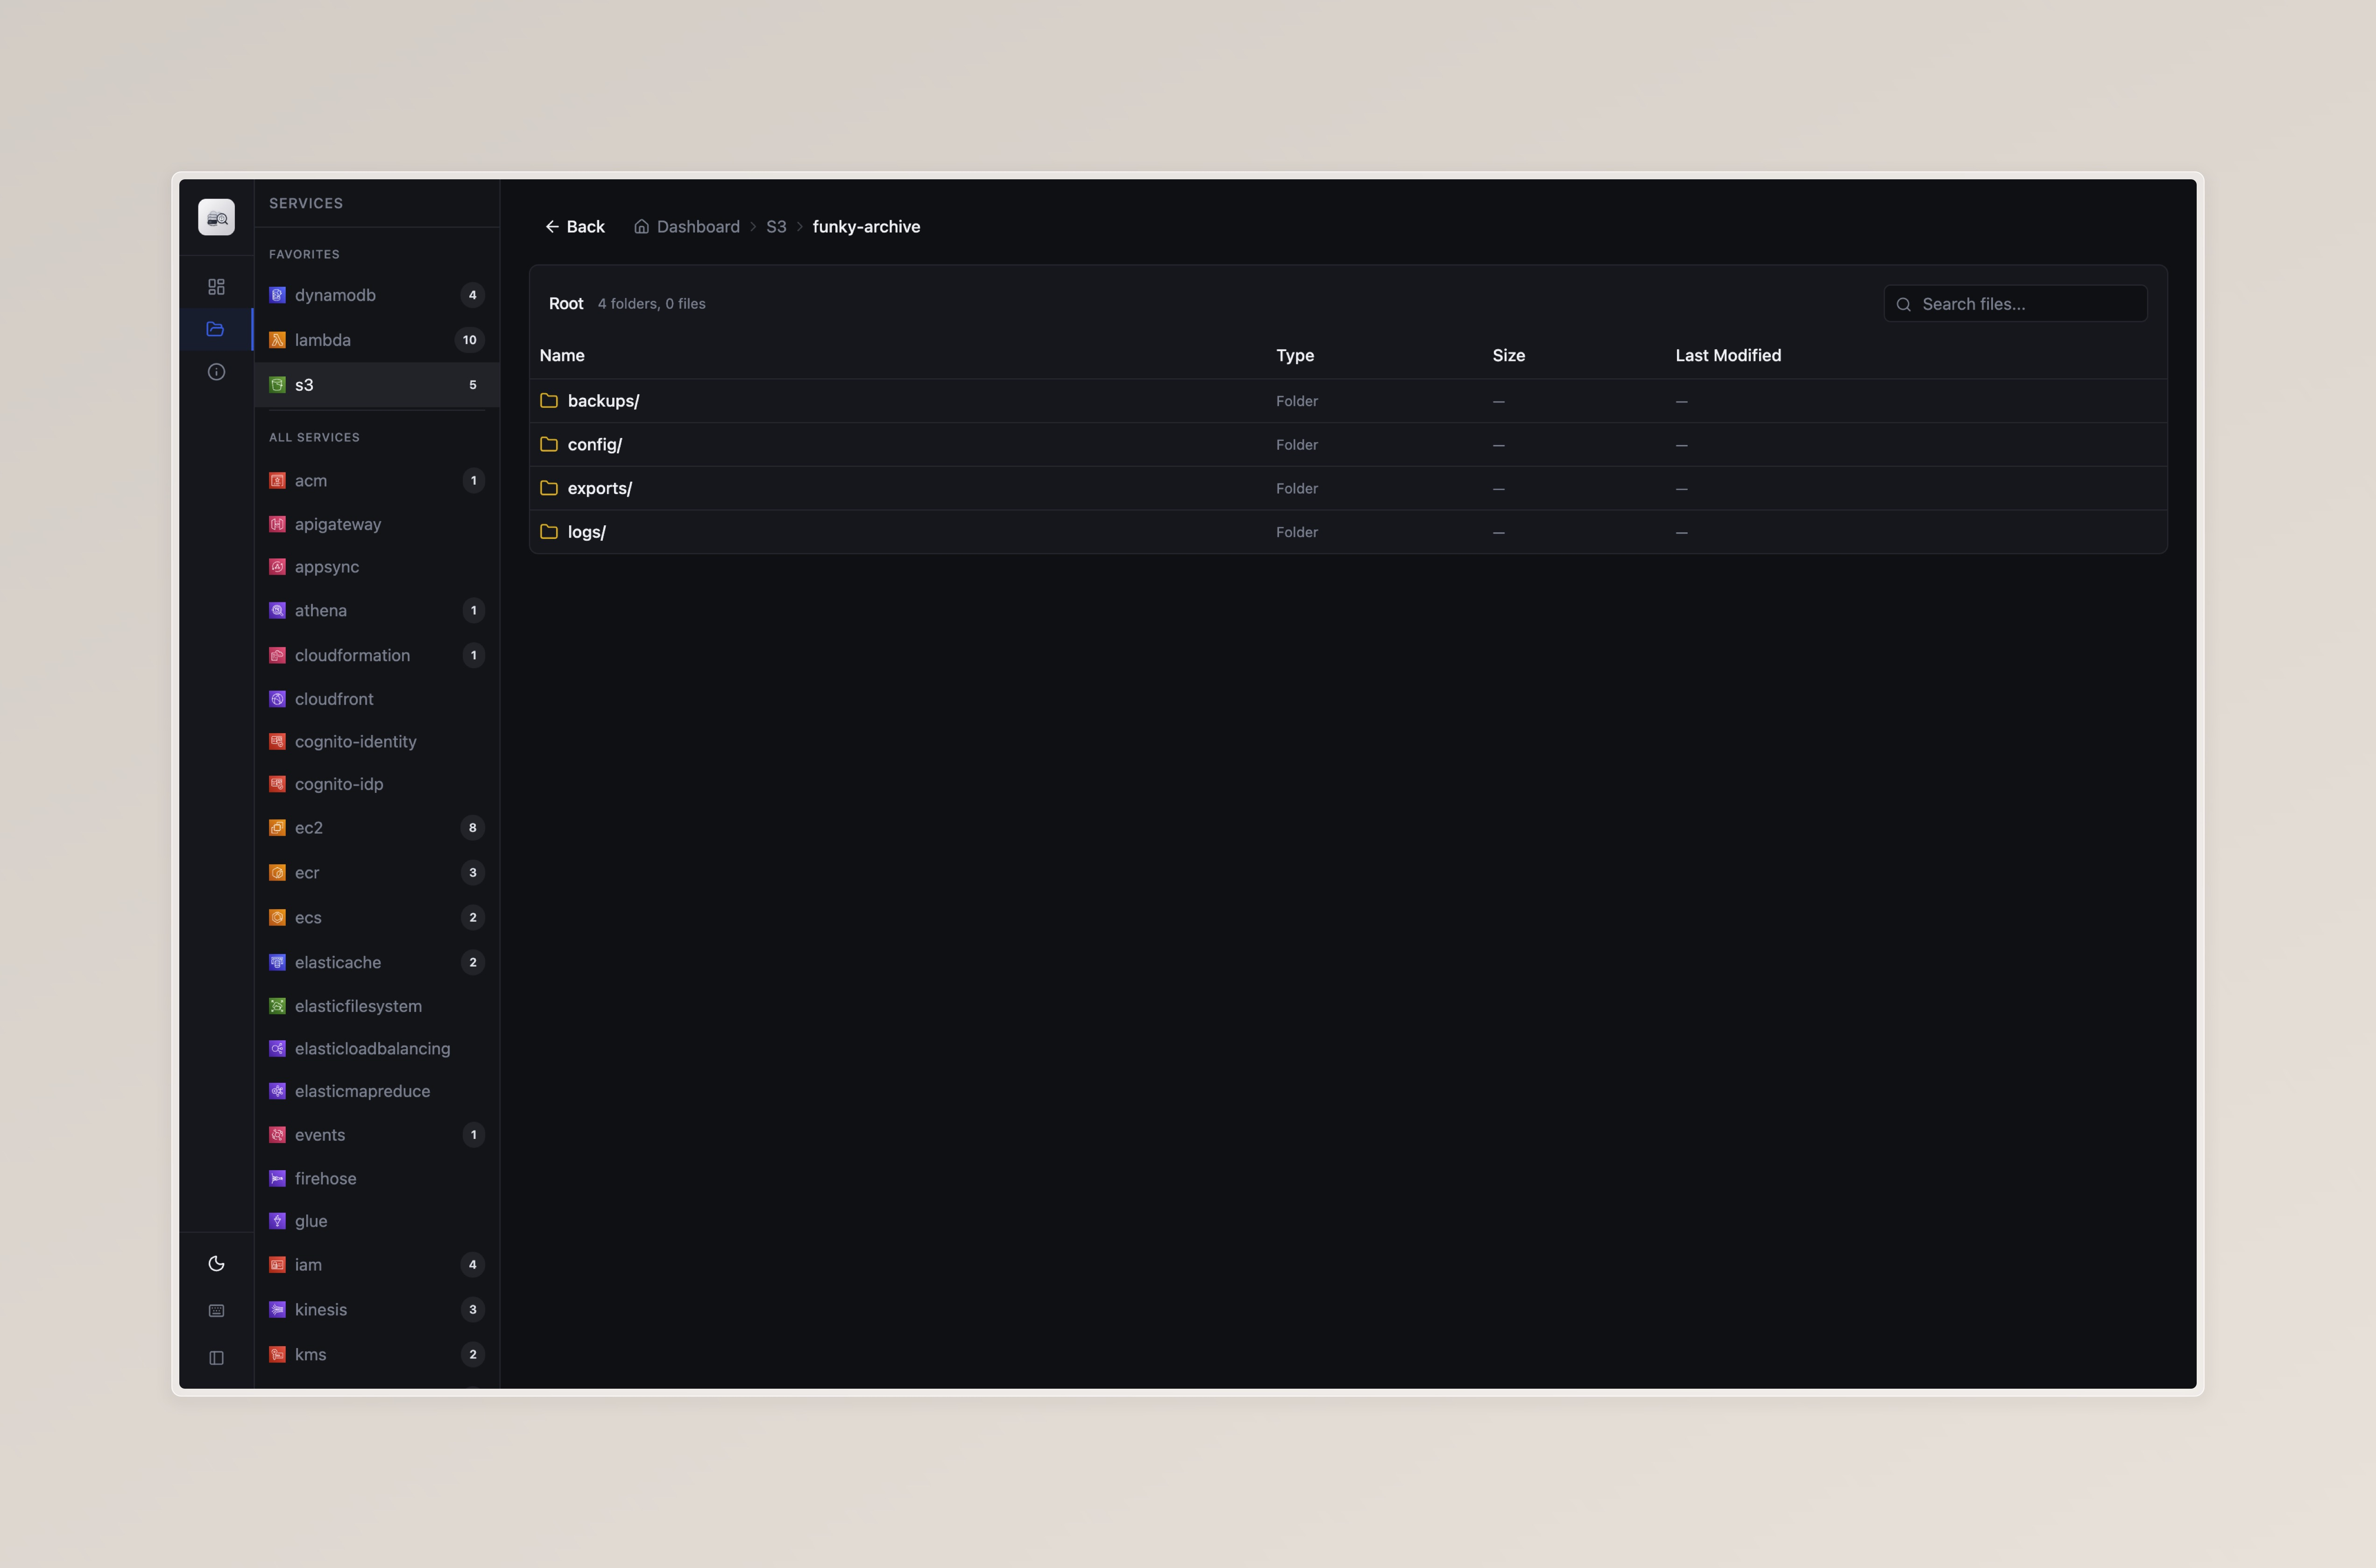
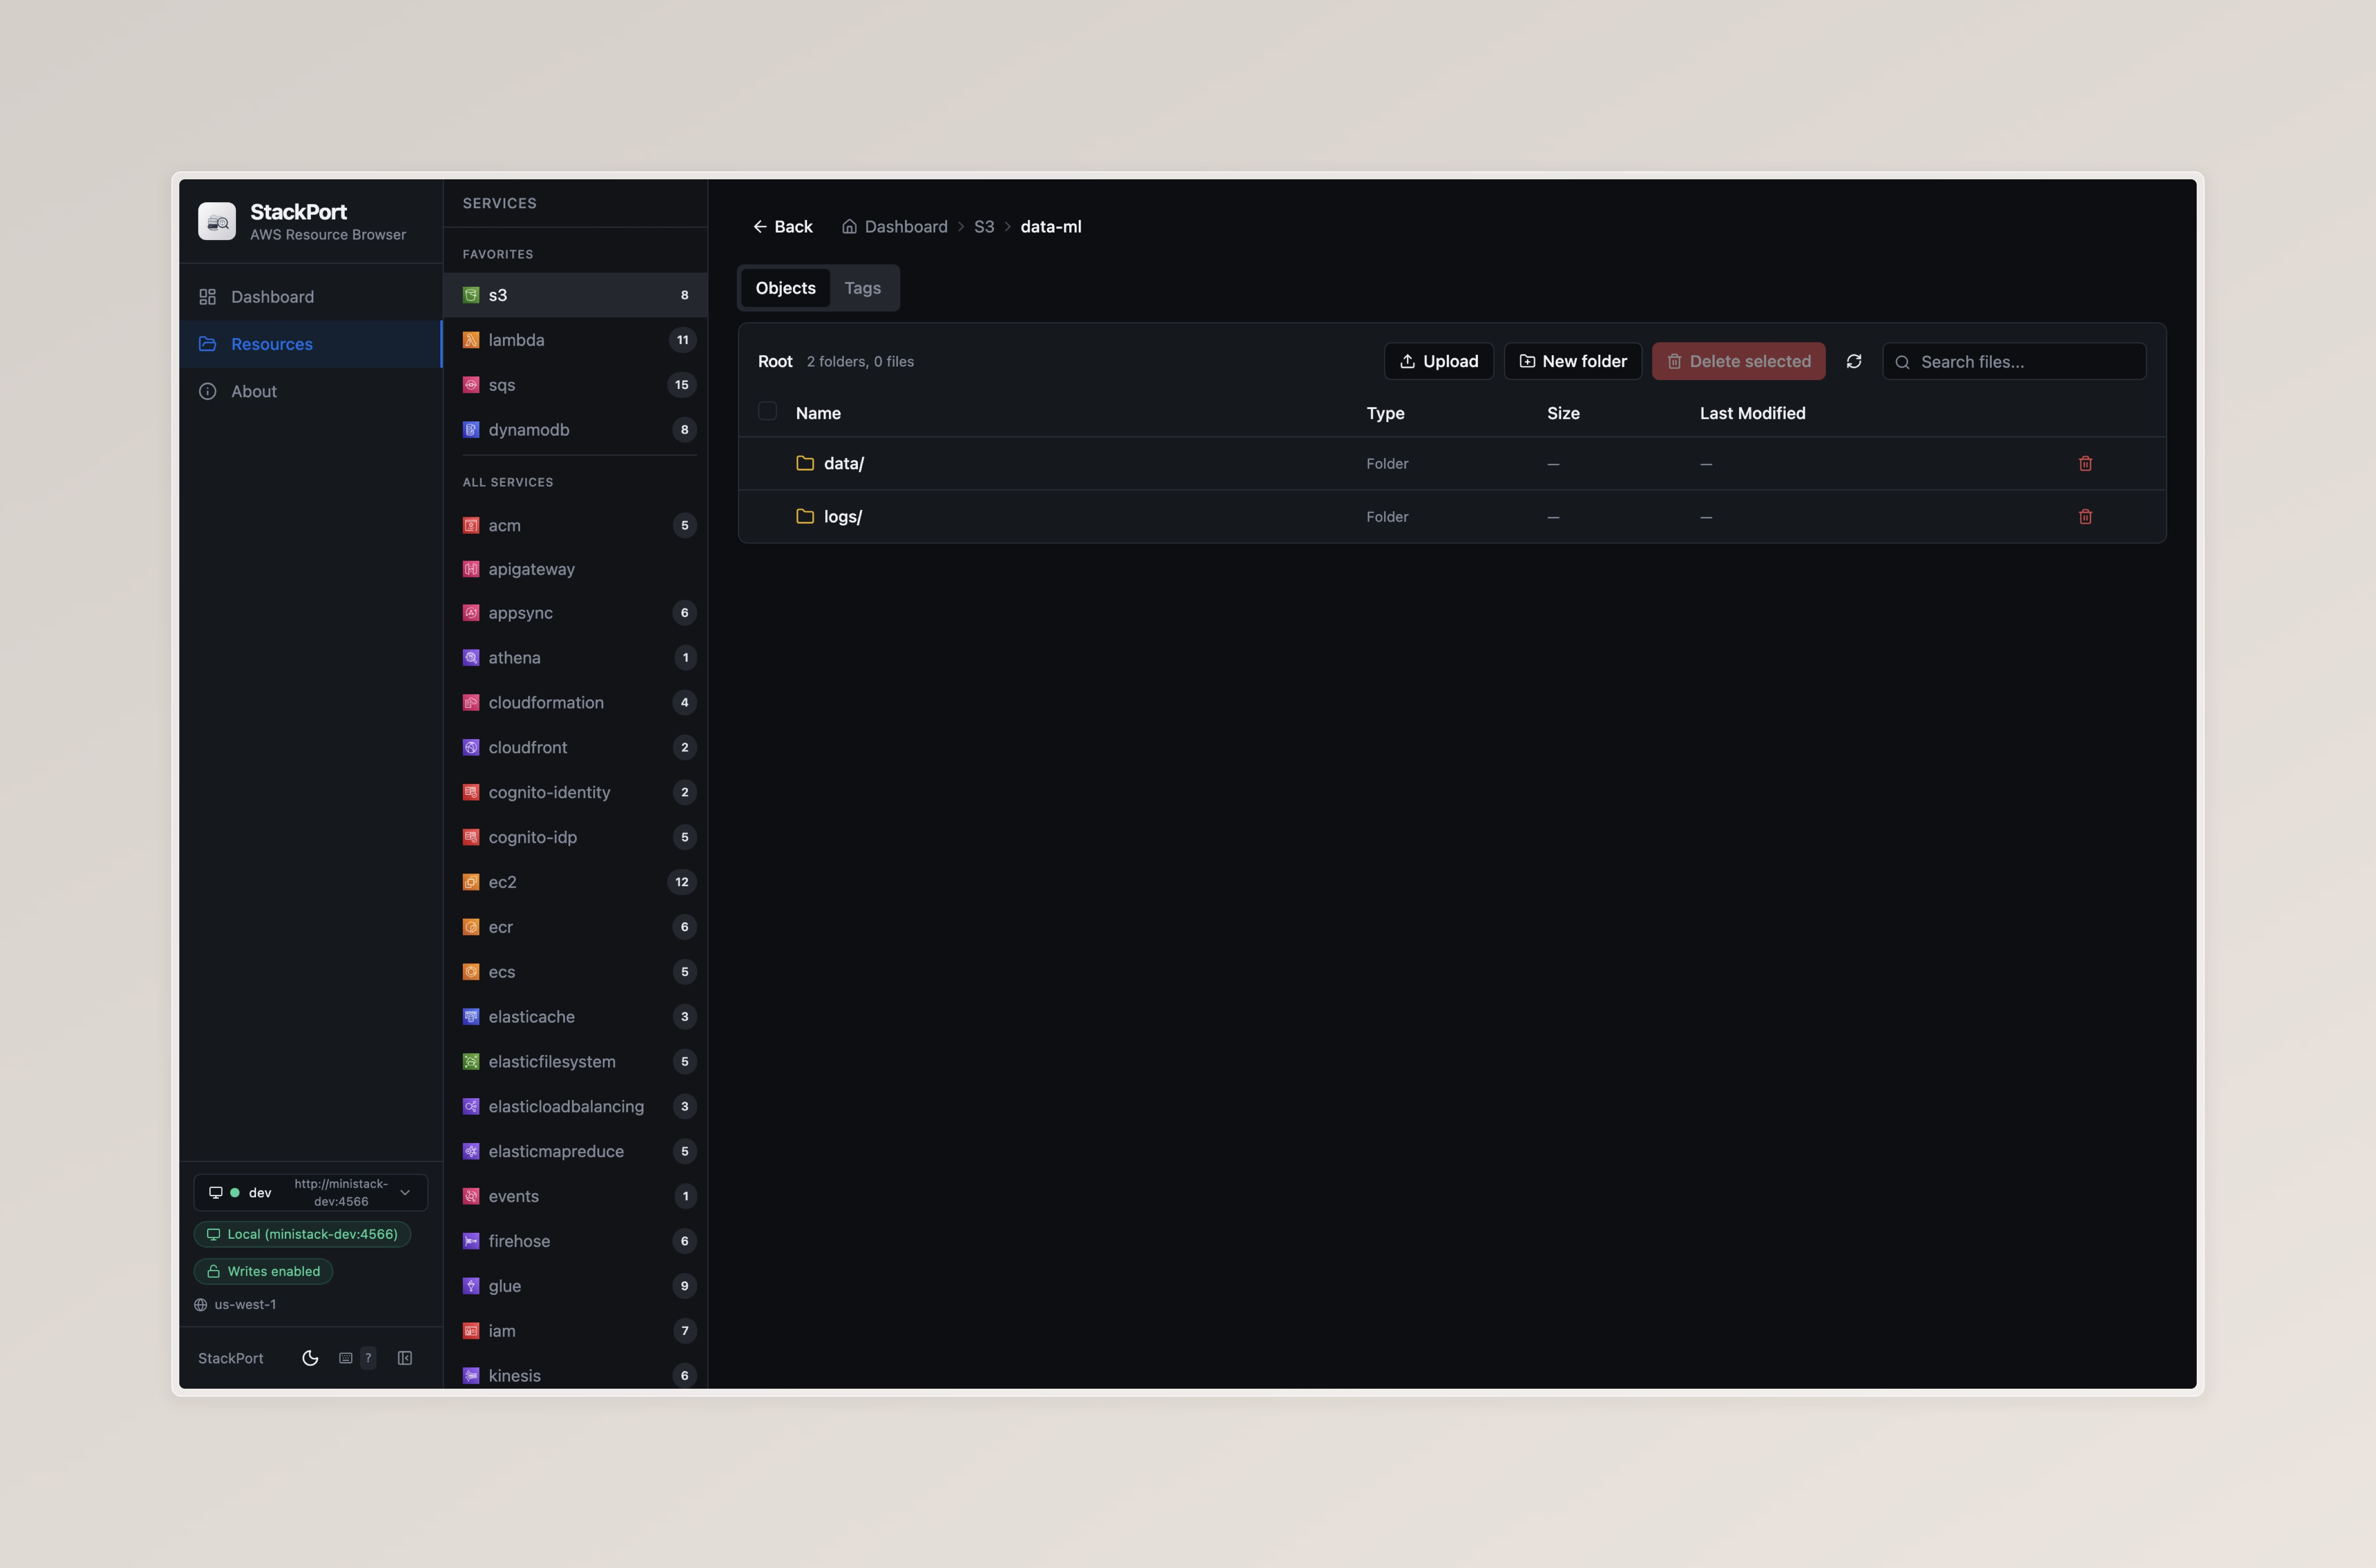
feat: update README and images for Lambda Browser, remove DynamoDB Browser

diff --git a/README.md b/README.md
@@ -21,8 +21,8 @@
 **Dashboard** — Service overview with resource counts and health status
 ![StackPort Dashboard](https://raw.githubusercontent.com/DaviReisVieira/stackport/main/docs/images/dashboard.jpeg)
 
-**DynamoDB Browser** — Query and scan tables with schema visualization
-![DynamoDB Resources](https://raw.githubusercontent.com/DaviReisVieira/stackport/main/docs/images/dynamo.jpeg)
+**Lambda Browser** — Function list with config, aliases, versions, event sources, and invocation panel
+![Lambda Resources](https://raw.githubusercontent.com/DaviReisVieira/stackport/main/docs/images/lambda.jpeg)
 
 **S3 Browser** — File browser with upload, download, folder navigation, and tagging
 ![S3 Browser](https://raw.githubusercontent.com/DaviReisVieira/stackport/main/docs/images/s3.jpeg)